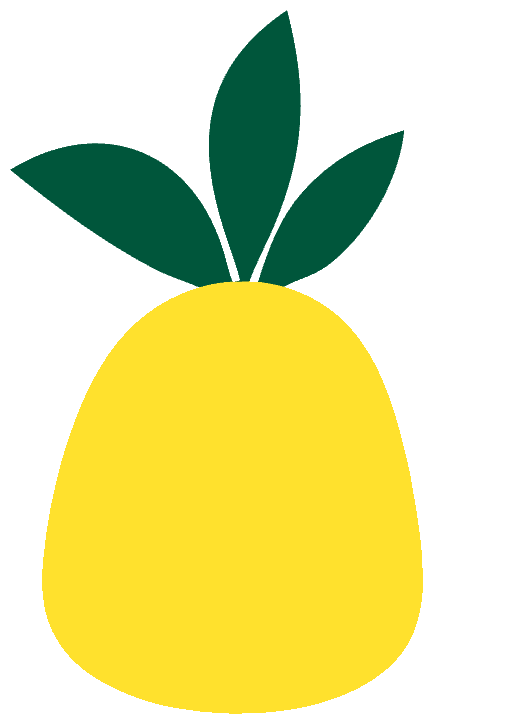
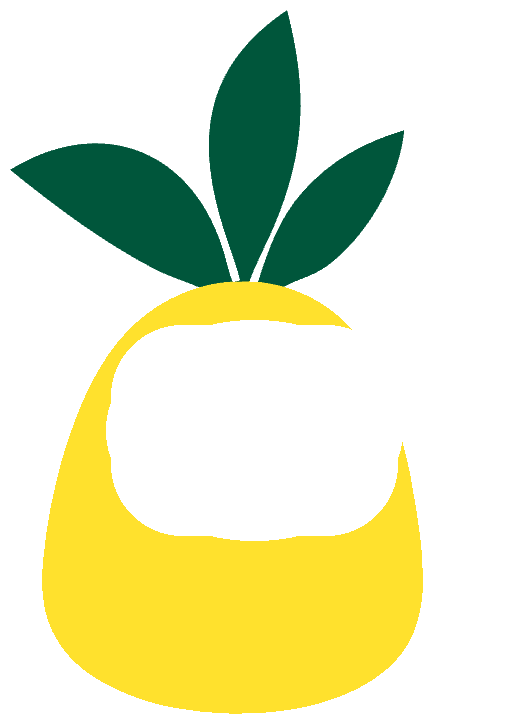
Remove displacement filter that ghosted the face
feDisplacementMap on the body was leaving dashed outline trails around
the fixed eyes/mouth. Keep body/leaves jelly wobble via transforms only,
with the face hole + static face plate still in place.

Changed region(s): [[0.2063, 0.4254, 0.7957, 0.7597]]

diff --git a/src/pineappleAvatar.ts b/src/pineappleAvatar.ts
@@ -118,24 +118,11 @@ export function mountPineappleAvatar(
   host.setAttribute("role", "img");
   host.setAttribute("aria-label", initial.label ?? "Pineapple");
 
-  const filterSvg = document.createElementNS("http://www.w3.org/2000/svg", "svg");
-  filterSvg.classList.add("pineapple-avatar__filters");
-  filterSvg.setAttribute("aria-hidden", "true");
-  filterSvg.innerHTML = `
-    <defs>
-      <filter id="${WOBBLE_FILTER_ID}" x="-14%" y="-14%" width="128%" height="128%" color-interpolation-filters="sRGB">
-        <feTurbulence type="fractalNoise" baseFrequency="0.012 0.018" numOctaves="2" seed="2" result="noise"></feTurbulence>
-        <feDisplacementMap in="SourceGraphic" in2="noise" scale="0" xChannelSelector="R" yChannelSelector="G"/>
-      </filter>
-    </defs>
-  `;
-  const turbulence = filterSvg.querySelector("feTurbulence")!;
-  const displacement = filterSvg.querySelector("feDisplacementMap")!;
-
   const stage = document.createElement("div");
   stage.className = "pineapple-avatar__stage";
 
-  // Layer 1: yellow body + leaves — ONLY this wobbles
+  // Layer 1: yellow body + leaves — ONLY this wobbles (CSS jelly, no displacement filter —
+  // feDisplacementMap was leaving ghost outlines around the fixed face)
   const bodyWrap = document.createElement("div");
   bodyWrap.className = "pineapple-avatar__body";
   const bodyImg = document.createElement("img");
@@ -145,7 +132,7 @@ export function mountPineappleAvatar(
   bodyImg.draggable = false;
   bodyWrap.append(bodyImg);
 
-  // Layer 2: static yellow face plate — covers wobble under eyes/mouth (kills ghost outlines)
+  // Layer 2: static yellow face plate under eyes/mouth
   const facePlate = document.createElement("img");
   facePlate.className = "pineapple-avatar__art pineapple-avatar__faceplate";
   facePlate.src = new URL("./assets/pineapple-faceplate.png", import.meta.url).href;
@@ -164,9 +151,10 @@ export function mountPineappleAvatar(
   face.classList.add("pineapple-avatar__face");
   face.setAttribute("viewBox", "0 0 100 100");
   face.setAttribute("aria-hidden", "true");
+  face.setAttribute("shape-rendering", "geometricPrecision");
 
   stage.append(bodyWrap, facePlate, detailsImg, face);
-  host.append(filterSvg, stage);
+  host.append(stage);
 
   const paintFace = () => {
     face.innerHTML = renderFace(mood, gazeX, gazeY, eyeThickness, mouthThickness);
@@ -175,30 +163,26 @@ export function mountPineappleAvatar(
   const applyWobble = (timeSec: number) => {
     const amount = reduced ? 0 : Math.max(0, wobble);
 
-    // Gentle bob on the whole avatar (not blobby)
+    // Gentle bob on the whole avatar
     const bob = Math.sin(timeSec * 2.2) * 4;
     stage.style.transform = `translateY(${bob.toFixed(2)}px)`;
 
-    // Jelly + fluid displacement — body/leaves only
-    const sx = 1 + Math.sin(timeSec * 2.05) * 0.02 * amount;
-    const sy = 1 + Math.cos(timeSec * 2.35) * 0.03 * amount;
-    const skew = Math.sin(timeSec * 1.55) * 2.6 * amount;
-    const slideX = Math.sin(timeSec * 1.1) * 3.8 * amount;
-    bodyWrap.style.transform = `translate(${slideX.toFixed(2)}px, 0) scale(${sx.toFixed(4)}, ${sy.toFixed(4)}) skewX(${skew.toFixed(2)}deg)`;
-
-    if (amount < 0.02) {
-      bodyWrap.style.filter = "none";
-      displacement.setAttribute("scale", "0");
-      return;
-    }
-    const freqX = 0.01 + amount * 0.005 + Math.sin(timeSec * 0.65) * 0.003 * amount;
-    const freqY = 0.014 + amount * 0.007 + Math.cos(timeSec * 0.55) * 0.004 * amount;
-    turbulence.setAttribute(
-      "baseFrequency",
-      `${Math.max(0.004, freqX).toFixed(4)} ${Math.max(0.004, freqY).toFixed(4)}`,
-    );
-    displacement.setAttribute("scale", (amount * 12).toFixed(2));
-    bodyWrap.style.filter = `url(#${WOBBLE_FILTER_ID})`;
+    // Blobby jelly on body/leaves only — layered harmonics for a fluid slide
+    const sx =
+      1 +
+      Math.sin(timeSec * 2.05) * 0.028 * amount +
+      Math.sin(timeSec * 3.4) * 0.012 * amount;
+    const sy =
+      1 +
+      Math.cos(timeSec * 2.35) * 0.04 * amount +
+      Math.cos(timeSec * 4.1) * 0.014 * amount;
+    const skew =
+      Math.sin(timeSec * 1.55) * 3.2 * amount + Math.sin(timeSec * 2.8) * 1.2 * amount;
+    const slideX =
+      Math.sin(timeSec * 1.1) * 5 * amount + Math.sin(timeSec * 2.6) * 1.8 * amount;
+    const slideY = Math.cos(timeSec * 1.35) * 2.4 * amount;
+    bodyWrap.style.transform = `translate(${slideX.toFixed(2)}px, ${slideY.toFixed(2)}px) scale(${sx.toFixed(4)}, ${sy.toFixed(4)}) skewX(${skew.toFixed(2)}deg)`;
+    bodyWrap.style.filter = "none";
   };
 
   const tick = () => {

diff --git a/src/style.css b/src/style.css
@@ -97,11 +97,13 @@ body {
 .pineapple-avatar__stage {
   position: relative;
   width: 100%;
+  isolation: isolate;
   will-change: transform;
 }
 
 .pineapple-avatar__body {
   position: relative;
+  z-index: 0;
   width: 100%;
   transform-origin: 50% 70%;
   will-change: transform, filter;
@@ -128,9 +130,17 @@ body {
   pointer-events: none;
 }
 
+.pineapple-avatar__faceplate {
+  z-index: 1;
+}
+
+.pineapple-avatar__details {
+  z-index: 2;
+}
+
 .pineapple-avatar__face {
+  z-index: 3;
   overflow: visible;
-  /* crisp strokes — avoid light fringe around SVG eyes/mouth */
   shape-rendering: geometricPrecision;
 }
 
